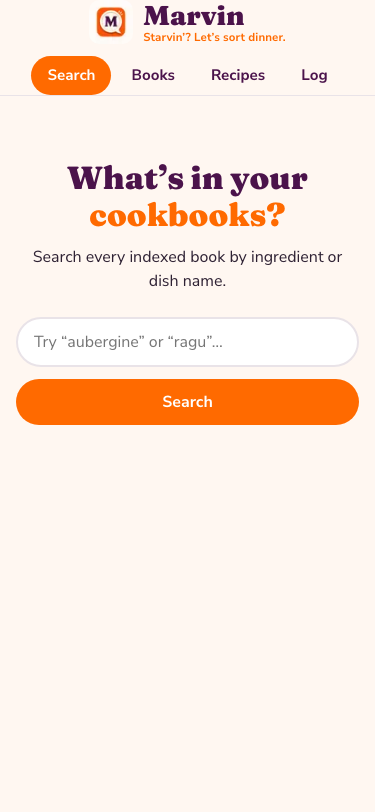
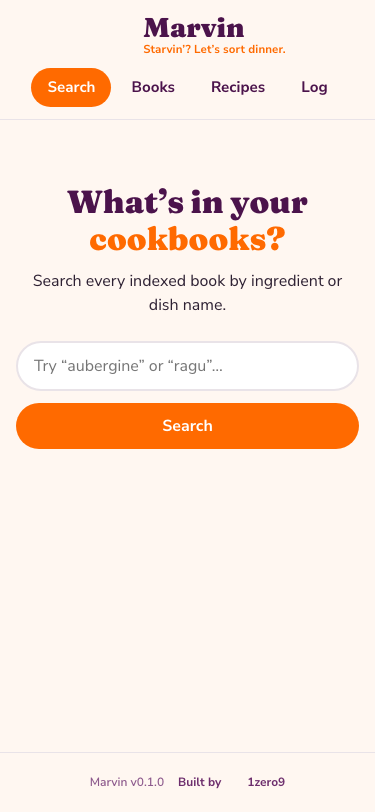
Add footer with app version and 1zero9 credit
🤖 Generated with [Claude Code](https://claude.ai/code)

diff --git a/components/Footer.module.css b/components/Footer.module.css
@@ -1,0 +1,31 @@
+.footer {
+  display: flex;
+  align-items: center;
+  justify-content: center;
+  gap: 14px;
+  padding: 20px 16px calc(20px + env(safe-area-inset-bottom));
+  border-top: 1px solid var(--border);
+  font-size: 0.75rem;
+  color: var(--plum-300);
+}
+
+.version {
+  font-weight: 600;
+}
+
+.credit {
+  display: inline-flex;
+  align-items: center;
+  gap: 5px;
+  font-weight: 700;
+  color: var(--plum-500);
+}
+
+.credit:hover {
+  color: var(--marvin-plum);
+}
+
+.logo {
+  border-radius: 50%;
+  opacity: 0.8;
+}

diff --git a/components/Footer.tsx b/components/Footer.tsx
@@ -1,0 +1,27 @@
+import Image from "next/image";
+import pkg from "../package.json";
+import styles from "./Footer.module.css";
+
+export default function Footer() {
+  return (
+    <footer className={styles.footer}>
+      <span className={styles.version}>Marvin v{pkg.version}</span>
+      <a
+        href="https://1zero9.com"
+        target="_blank"
+        rel="noopener noreferrer"
+        className={styles.credit}
+      >
+        Built by
+        <Image
+          src="/1zero9.png"
+          alt="1zero9"
+          width={16}
+          height={16}
+          className={styles.logo}
+        />
+        1zero9
+      </a>
+    </footer>
+  );
+}

diff --git a/app/layout.tsx b/app/layout.tsx
@@ -2,6 +2,7 @@ import type { Metadata, Viewport } from "next";
 import { Fraunces, Nunito_Sans } from "next/font/google";
 import "./globals.css";
 import Nav from "@/components/Nav";
+import Footer from "@/components/Footer";
 import SwRegister from "@/components/SwRegister";
 
 const heading = Fraunces({
@@ -37,9 +38,10 @@ export default function RootLayout({
     <html lang="en" className={`${heading.variable} ${body.variable}`}>
       <body>
         <Nav />
-        <main className="container" style={{ paddingBottom: 96, paddingTop: 24 }}>
+        <main className="container" style={{ paddingBottom: 64, paddingTop: 24, minHeight: "calc(100vh - 180px)" }}>
           {children}
         </main>
+        <Footer />
         <SwRegister />
       </body>
     </html>